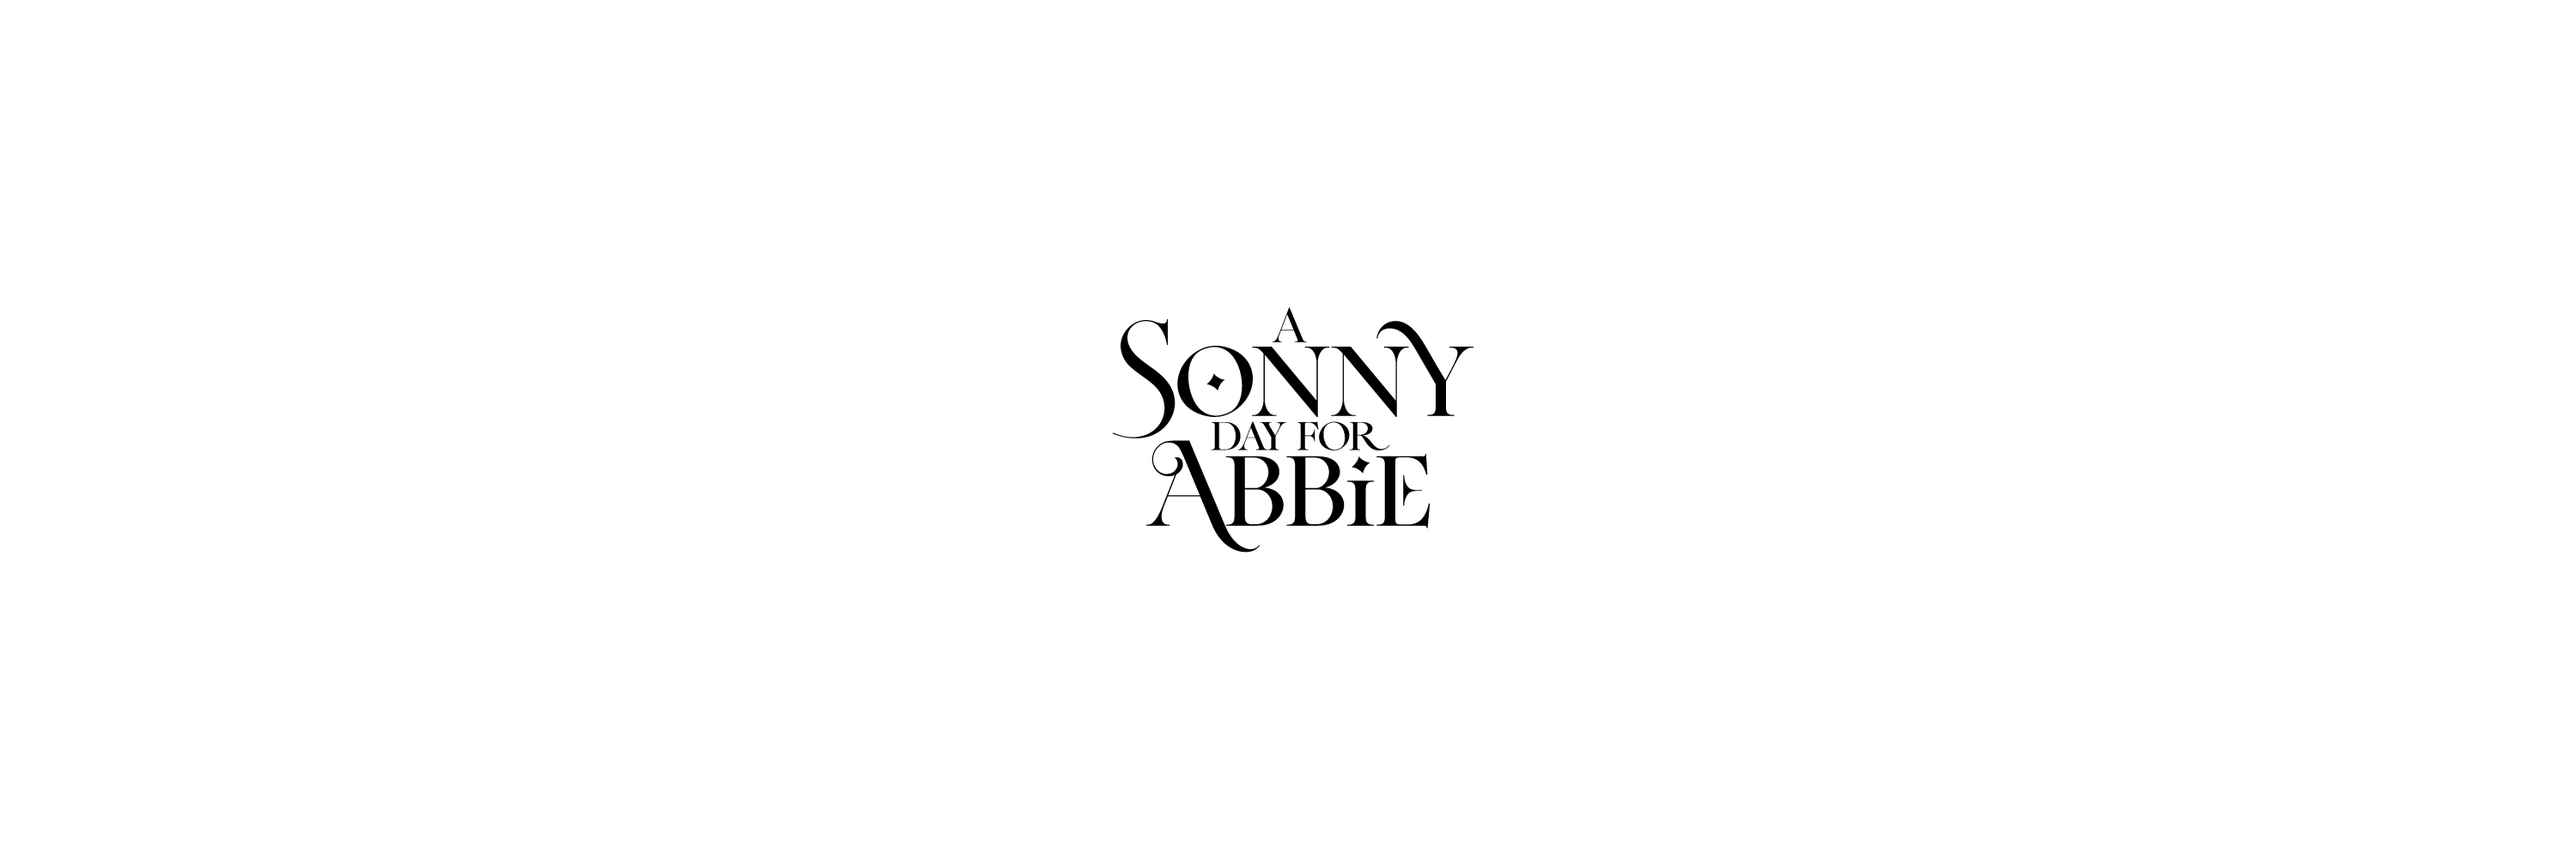
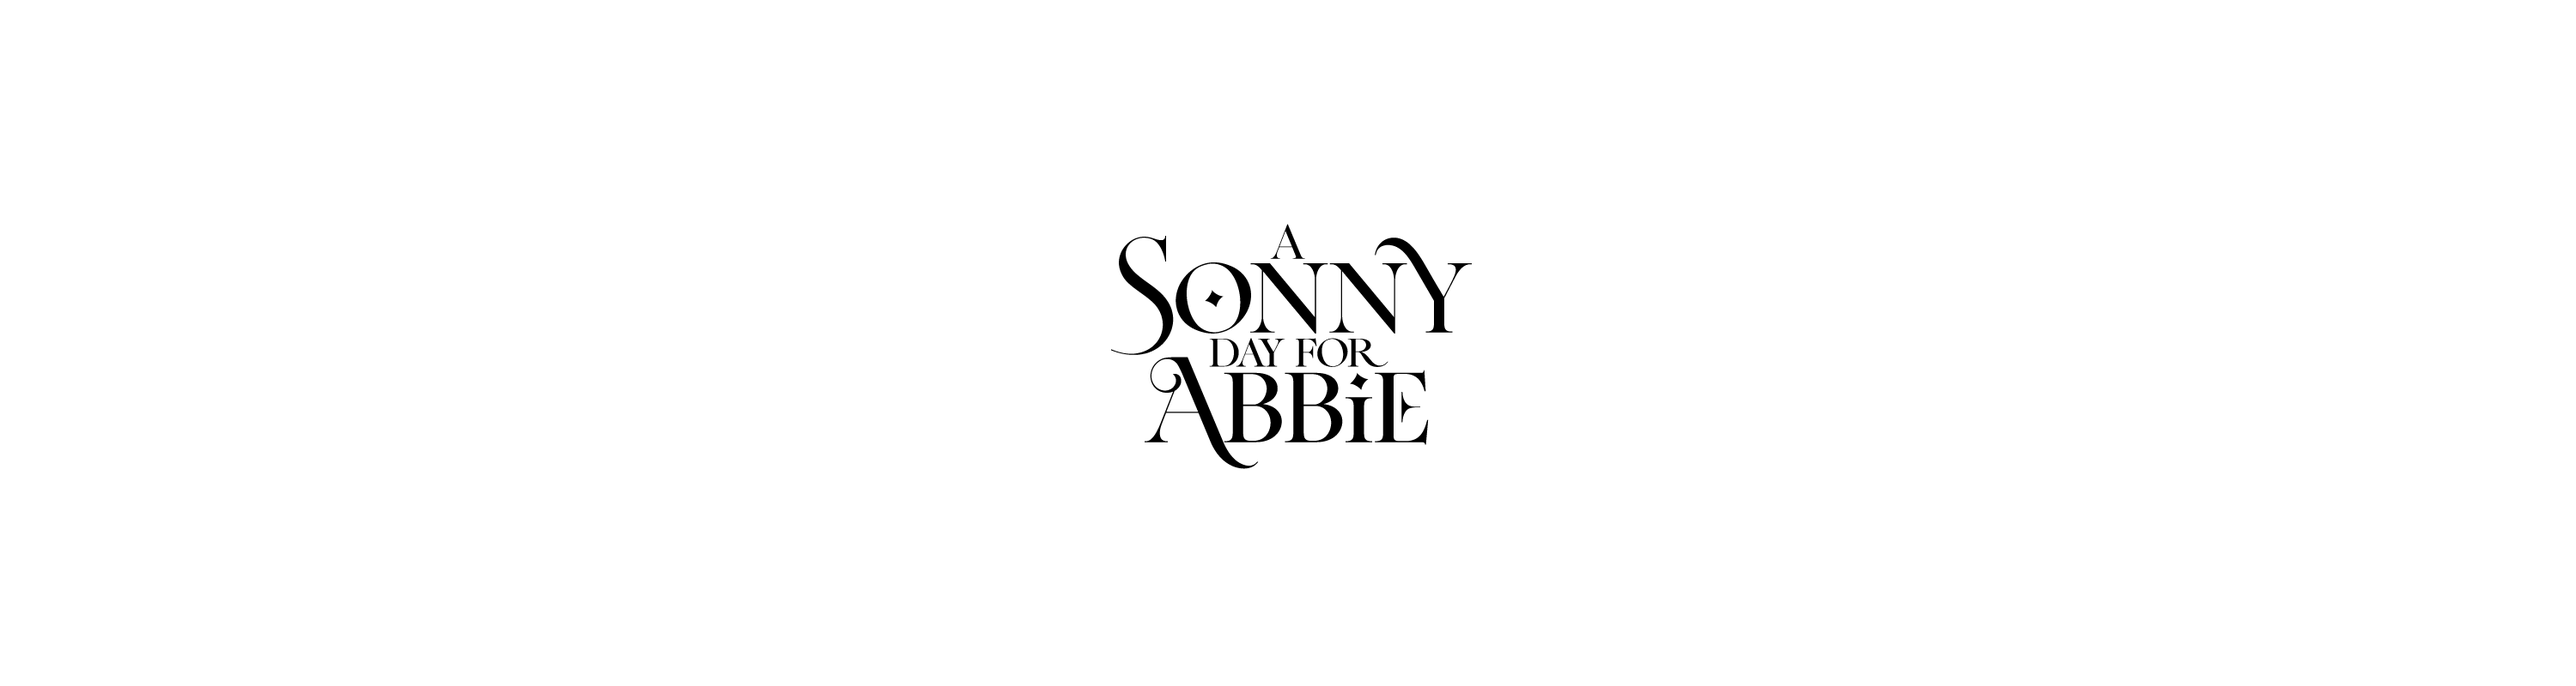
Updates

Changed region(s): [[0.434, 0.3438, 0.558, 0.6875]]

diff --git a/css/style.css b/css/style.css
@@ -26,7 +26,9 @@ body {
   .parallax__layer img {
     display: block;
     position: absolute;
-    top: 0; }
+    top: 0;
+    bottom: 0;
+    margin: auto; }
 
 .parallax__cover {
   background: #FFFAAA;
@@ -66,13 +68,13 @@ body {
   padding-left: 3000px; }
 
 @media (max-width: 1200px) {
+  #title {
+    background: url(../assets/images/title-md.png) no-repeat; }
   #sun-moon {
     background: url(../assets/images/sun-moon-md.png) no-repeat; } }
 
-@media (max-width: 1024px) {
-  #title {
-    background: url(../assets/images/title-sm.png) no-repeat; } }
-
 @media (max-width: 768px) {
+  #title {
+    background: url(../assets/images/title-sm.png) no-repeat; }
   #sun-moon {
     background: url(../assets/images/sun-moon-sm.png) no-repeat; } }
